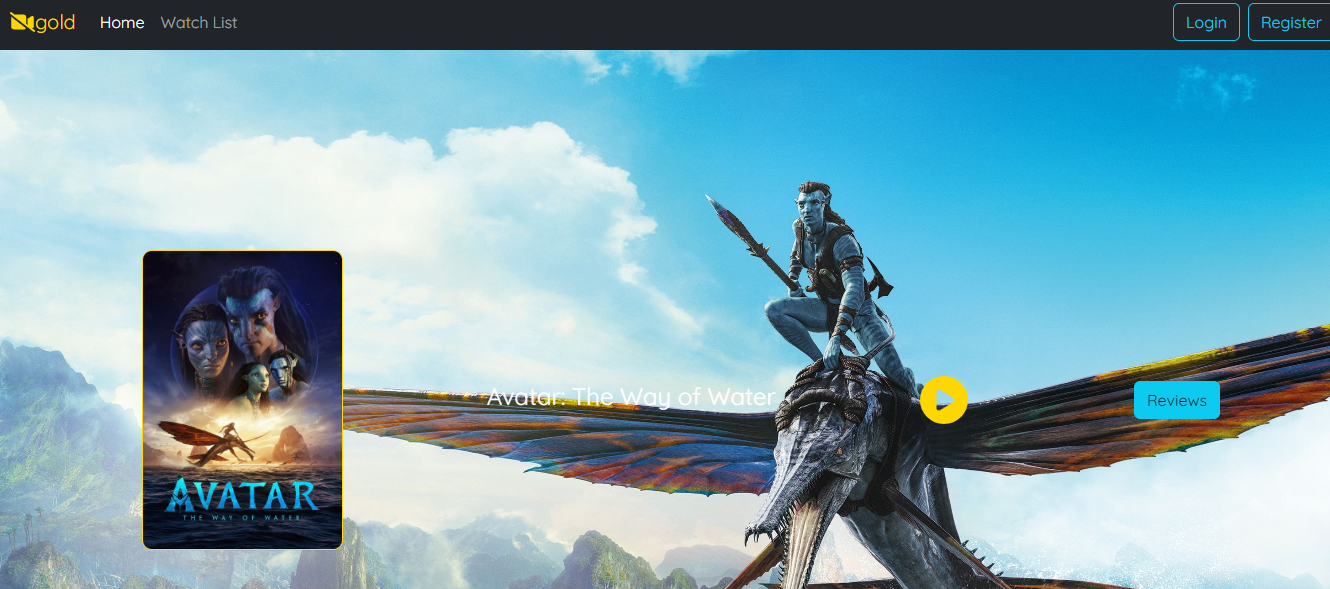
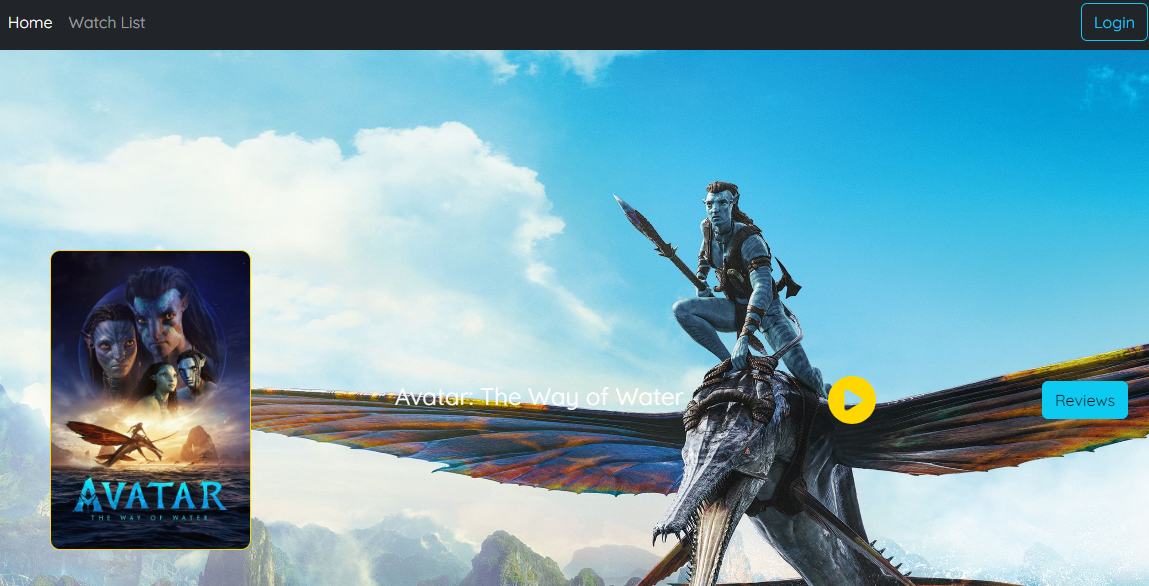
5th commit

diff --git a/src/pages/About.jsx b/src/pages/About.jsx
@@ -4,7 +4,7 @@ import { MdOutlineKeyboardArrowRight } from 'react-icons/md'
 function About() {
     return (
         <div name='about'
-            className='bg-gradient-to-b from-gray-900 to-black w-full h-auto sm:min-h-screen sm:h-auto pt-[60px] pb-[10px] px-0 sm:px-[80px]'>
+            className='bg-gradient-to-b from-gray-900 to-black w-full h-auto sm:min-h-screen sm:h-auto pt-[60px] pb-[10px] px-[10px] sm:px-[50px] md:px-[100px]'>
             <div className='max-w-screen-lg mx-auto flex flex-col  w-full h-full text-white'>
                 
                 <div>
@@ -13,16 +13,16 @@ function About() {
 
                 <div className='flex flex-col md:flex-row colst py-6'>
                     
-                    <div className='md:w-1/2 p-6'>
-                        <h1 className='text-3xl'>Myself</h1>
-                        <p className='text-2xl py-6'>I am an honest, confident, and dedicated individual who is inspired by
+                    <div className='md:w-1/2 p-6 pr-10'>
+                        <h1 className='text-xl sm:text-3xl'>Myself</h1>
+                        <p className='text-justify text-lg sm:text-2xl py-2 sm:py-6'>I am an honest, confident, and dedicated individual who is inspired by
                             curiosity and creativity to explore new technologies and find novel
                             solutions to complex problems. I am capable of working in a team and
                             on my own and accepting challenges to reach my goals.
                         </p>
 
                         <div>
-                            <button className='text-white group bg-gradient-to-b from-gray-900 to-black rounded-xl px-6 py-3 my-2 flex items-center shadow-sm hover:shadow-blue-600'>
+                            <button className='text-white group bg-gradient-to-b from-gray-900 to-black rounded-xl px-6 py-3 my-2 flex items-center shadow-sm shadow-gray-400 hover:shadow-blue-600'>
                                 Resume
                                 <span className='group-hover:rotate-90 duration-500'>
                                     <MdOutlineKeyboardArrowRight size={25} className='ml-1' />
@@ -32,10 +32,10 @@ function About() {
                     </div>
 
                     <div className='md:w-1/2 p-6'>
-                        <h1 className='text-3xl'>Education</h1>
-                        <p className='text-2xl py-6'>UNIVERSITY OF MORATUWA <br />
+                        <h1 className='text-xl sm:text-3xl'>Education</h1>
+                        <p className='text-lg sm:text-2xl py-2 sm:py-6 '>UNIVERSITY OF MORATUWA <br />
                             Bachelor of Science in Civil
-                            Engineering(Hons) (2019-2023)<br /><br/>
+                            Engineering(Hons) (2019-2023)<br/><br />
                             Full-Stack Developer Trainee
                             Program (Reading)
                         </p>

diff --git a/src/pages/Projects.jsx b/src/pages/Projects.jsx
@@ -1,6 +1,8 @@
 import React from 'react'
-import currencyconverter from "../assets/currencyconverter.png"
+import currencyconverter from "../assets/currency-converter.png"
 import moviereviews from "../assets/moviereviews.png"
+import employeems from "../assets/Employee-MS.png"
+import userregistration from "../assets/user-registration.png"
 
 function Projects() {
 
@@ -8,7 +10,7 @@ function Projects() {
     {
       id: 1,
       name: "Employee Management System",
-      src: currencyconverter
+      src: employeems
     },
     {
       id: 2,
@@ -23,7 +25,7 @@ function Projects() {
     {
       id: 4,
       name: "User registration",
-      src: currencyconverter
+      src: userregistration
     },
     {
       id: 5,
@@ -38,7 +40,7 @@ function Projects() {
 
   return (
     <div name='projects'
-      className='bg-gradient-to-b from-gray-900 to-black w-full h-auto sm:min-h-screen sm:h-auto pt-[60px] pb-[10px] px-0 sm:px-[80px]'>
+      className='bg-gradient-to-b from-gray-900 to-black w-full h-auto sm:min-h-screen sm:h-auto pt-[60px] pb-[30px] px-[10px] sm:px-[50px] md:px-[100px]'>
       <div className='max-w-screen-lg mx-auto flex flex-col justify-center w-full h-full text-white'>
 
         <div className='pb-8'>
@@ -50,17 +52,18 @@ function Projects() {
 
           {
             projects.map(({ id, name, src }) => (
-              <div key={id} className='shadow-md shadow-gray-600 rounded-lg'>
-                <img src={src} alt="" className='rounded-md duration-200 hover:scale-105' />
+              <div key={id} className='shadow-md shadow-gray-600 hover:shadow-yellow-400 rounded-lg p-3'>
+                <img src={src} alt="" className='rounded-md duration-200 hover:scale-105 w-full h-[200px]' />
 
 
                 <div className='grid items-center justify-center py-2'>
                   <p className='text-center'>{name}</p>
                   <div className='flex items-center justify-center py-2'>
-                    <button className="w-1/2 px-6 duration-200 hover:scale-105" onClick={handleDemo}>Demo</button>
-                    <button className="w-1/2 px-6 duration-200 hover:scale-105">Code</button>
+                    <button className="w-1/2 px-6 mx-2 py-1 duration-200 hover:scale-105 text-white bg-gradient-to-b from-gray-900 to-black rounded-full items-center shadow-sm shadow-gray-400 hover:shadow-blue-600" onClick={handleDemo}>Demo</button>
+                    <button className="w-1/2 px-6 mx-2 py-1 duration-200 hover:scale-105 text-white bg-gradient-to-b from-gray-900 to-black rounded-full items-center shadow-sm shadow-gray-400 hover:shadow-blue-600">Code</button>
                   </div>
                 </div>
+
               </div>
             ))
           }

diff --git a/src/pages/Home.jsx b/src/pages/Home.jsx
@@ -6,7 +6,7 @@ function Home() {
     return (
         <div
             name='home'
-            className='bg-gradient-to-b from-gray-900 to-black w-full h-auto sm:h-screen pt-[60px] pb-[10px]'>
+            className='bg-gradient-to-b from-gray-900 to-black w-full h-auto sm:h-screen pt-[60px] pb-[10px] px-[10px] sm:px-[50px] md:px-[100px]'>
 
             {/* container */}
             <div className='max-w-screen-lg mx-auto px-4 flex flex-col items-center justify-center h-full md:flex-row'>
@@ -17,13 +17,14 @@ function Home() {
                     <h2 className='text-3xl sm:text-5xl text-[#8892b0] py-6'>I'm a Full Stack Developer</h2>
 
                     <div>
-                        <button className='text-white group bg-gradient-to-b from-gray-900 to-black rounded-xl px-6 py-3 my-2 flex items-center shadow-sm hover:shadow-blue-600'>
+                        <button className='text-white group bg-gradient-to-b from-gray-900 to-black rounded-xl px-6 py-3 my-2 flex items-center shadow-sm shadow-gray-400 hover:shadow-blue-600'>
                             View Work
                             <span className='group-hover:rotate-90 duration-500'>
                                 <MdOutlineKeyboardArrowRight size={25} className='ml-1' />
                             </span>
                         </button>
                     </div>
+
                 </div>
 
                 <div>

diff --git a/src/pages/Skills.jsx b/src/pages/Skills.jsx
@@ -78,7 +78,7 @@ function Skills() {
 
     return (
         <div name='skills'
-            className='bg-gradient-to-b from-gray-900 to-black w-full h-auto sm:min-h-screen sm:h-auto pt-[60px] pb-[10px] px-0 sm:px-[80px]'>
+            className='bg-gradient-to-b from-gray-900 to-black w-full h-auto sm:min-h-screen sm:h-auto pt-[60px] pb-[10px] px-[10px] sm:px-[50px] md:px-[100px]'>
             <div className='max-w-screen-lg mx-auto flex flex-col justify-center w-full h-full text-white'>
                 
                 <div>
@@ -86,7 +86,7 @@ function Skills() {
                     <p className='py-6'>These are the technologies I work with</p>
                 </div>
 
-                <div className='w-full grid grid-cols-2 sm:grid-cols-5 gap-8 text-center py-8 px-12 sm:px-0'>
+                <div className='w-full grid grid-cols-2 sm:grid-cols-3 md:grid-cols-5 gap-8 text-center py-8 px-12 sm:px-0'>
 
                     {techs.map(({ id, src, title, style }) => (
                         <div 

diff --git a/src/pages/Contacts.jsx b/src/pages/Contacts.jsx
@@ -3,7 +3,7 @@ import React from 'react'
 function Contacts() {
   return (
     <div name='contacts'
-      className='w-full bg-gradient-to-b from-gray-900 to-black p-4 text-white h-auto sm:h-screen pt-[60px] pb-[10px]'>
+      className='w-full bg-gradient-to-b from-gray-900 to-black p-4 text-white h-auto sm:h-screen pt-[60px] pb-[10px] px-[10px] sm:px-[50px] md:px-[100px]'>
 
       <div className='max-w-screen-lg mx-auto p-4 flex flex-col justify-center w-full h-full'>
 
